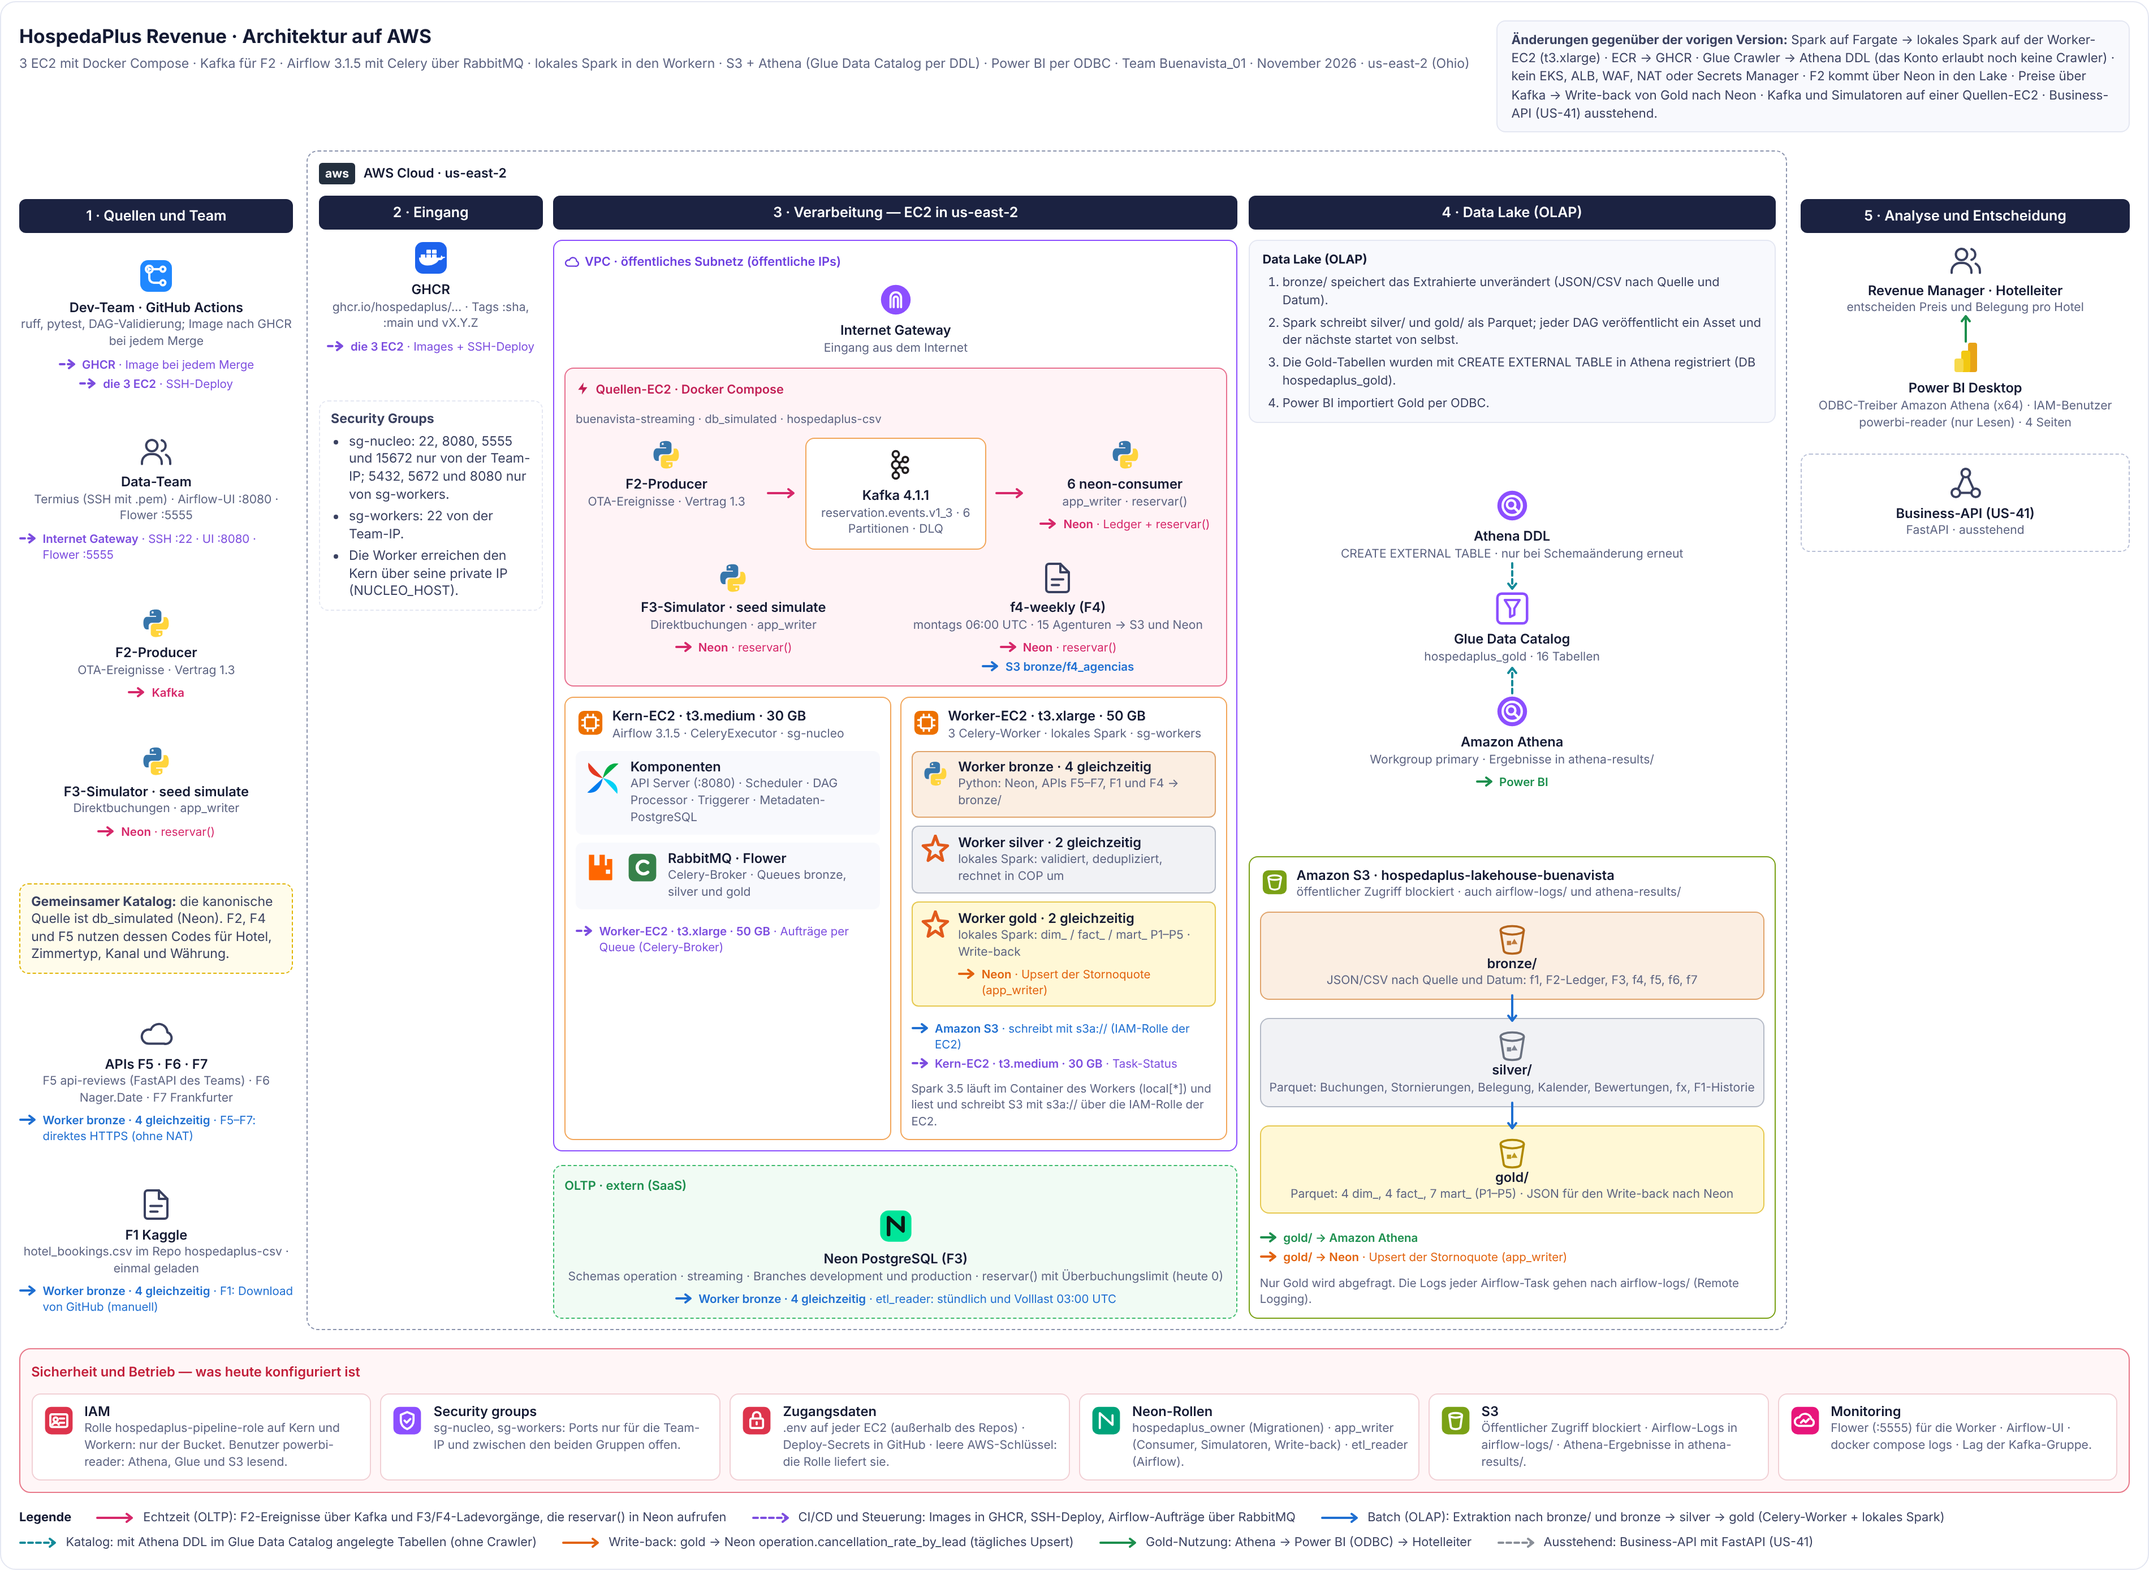
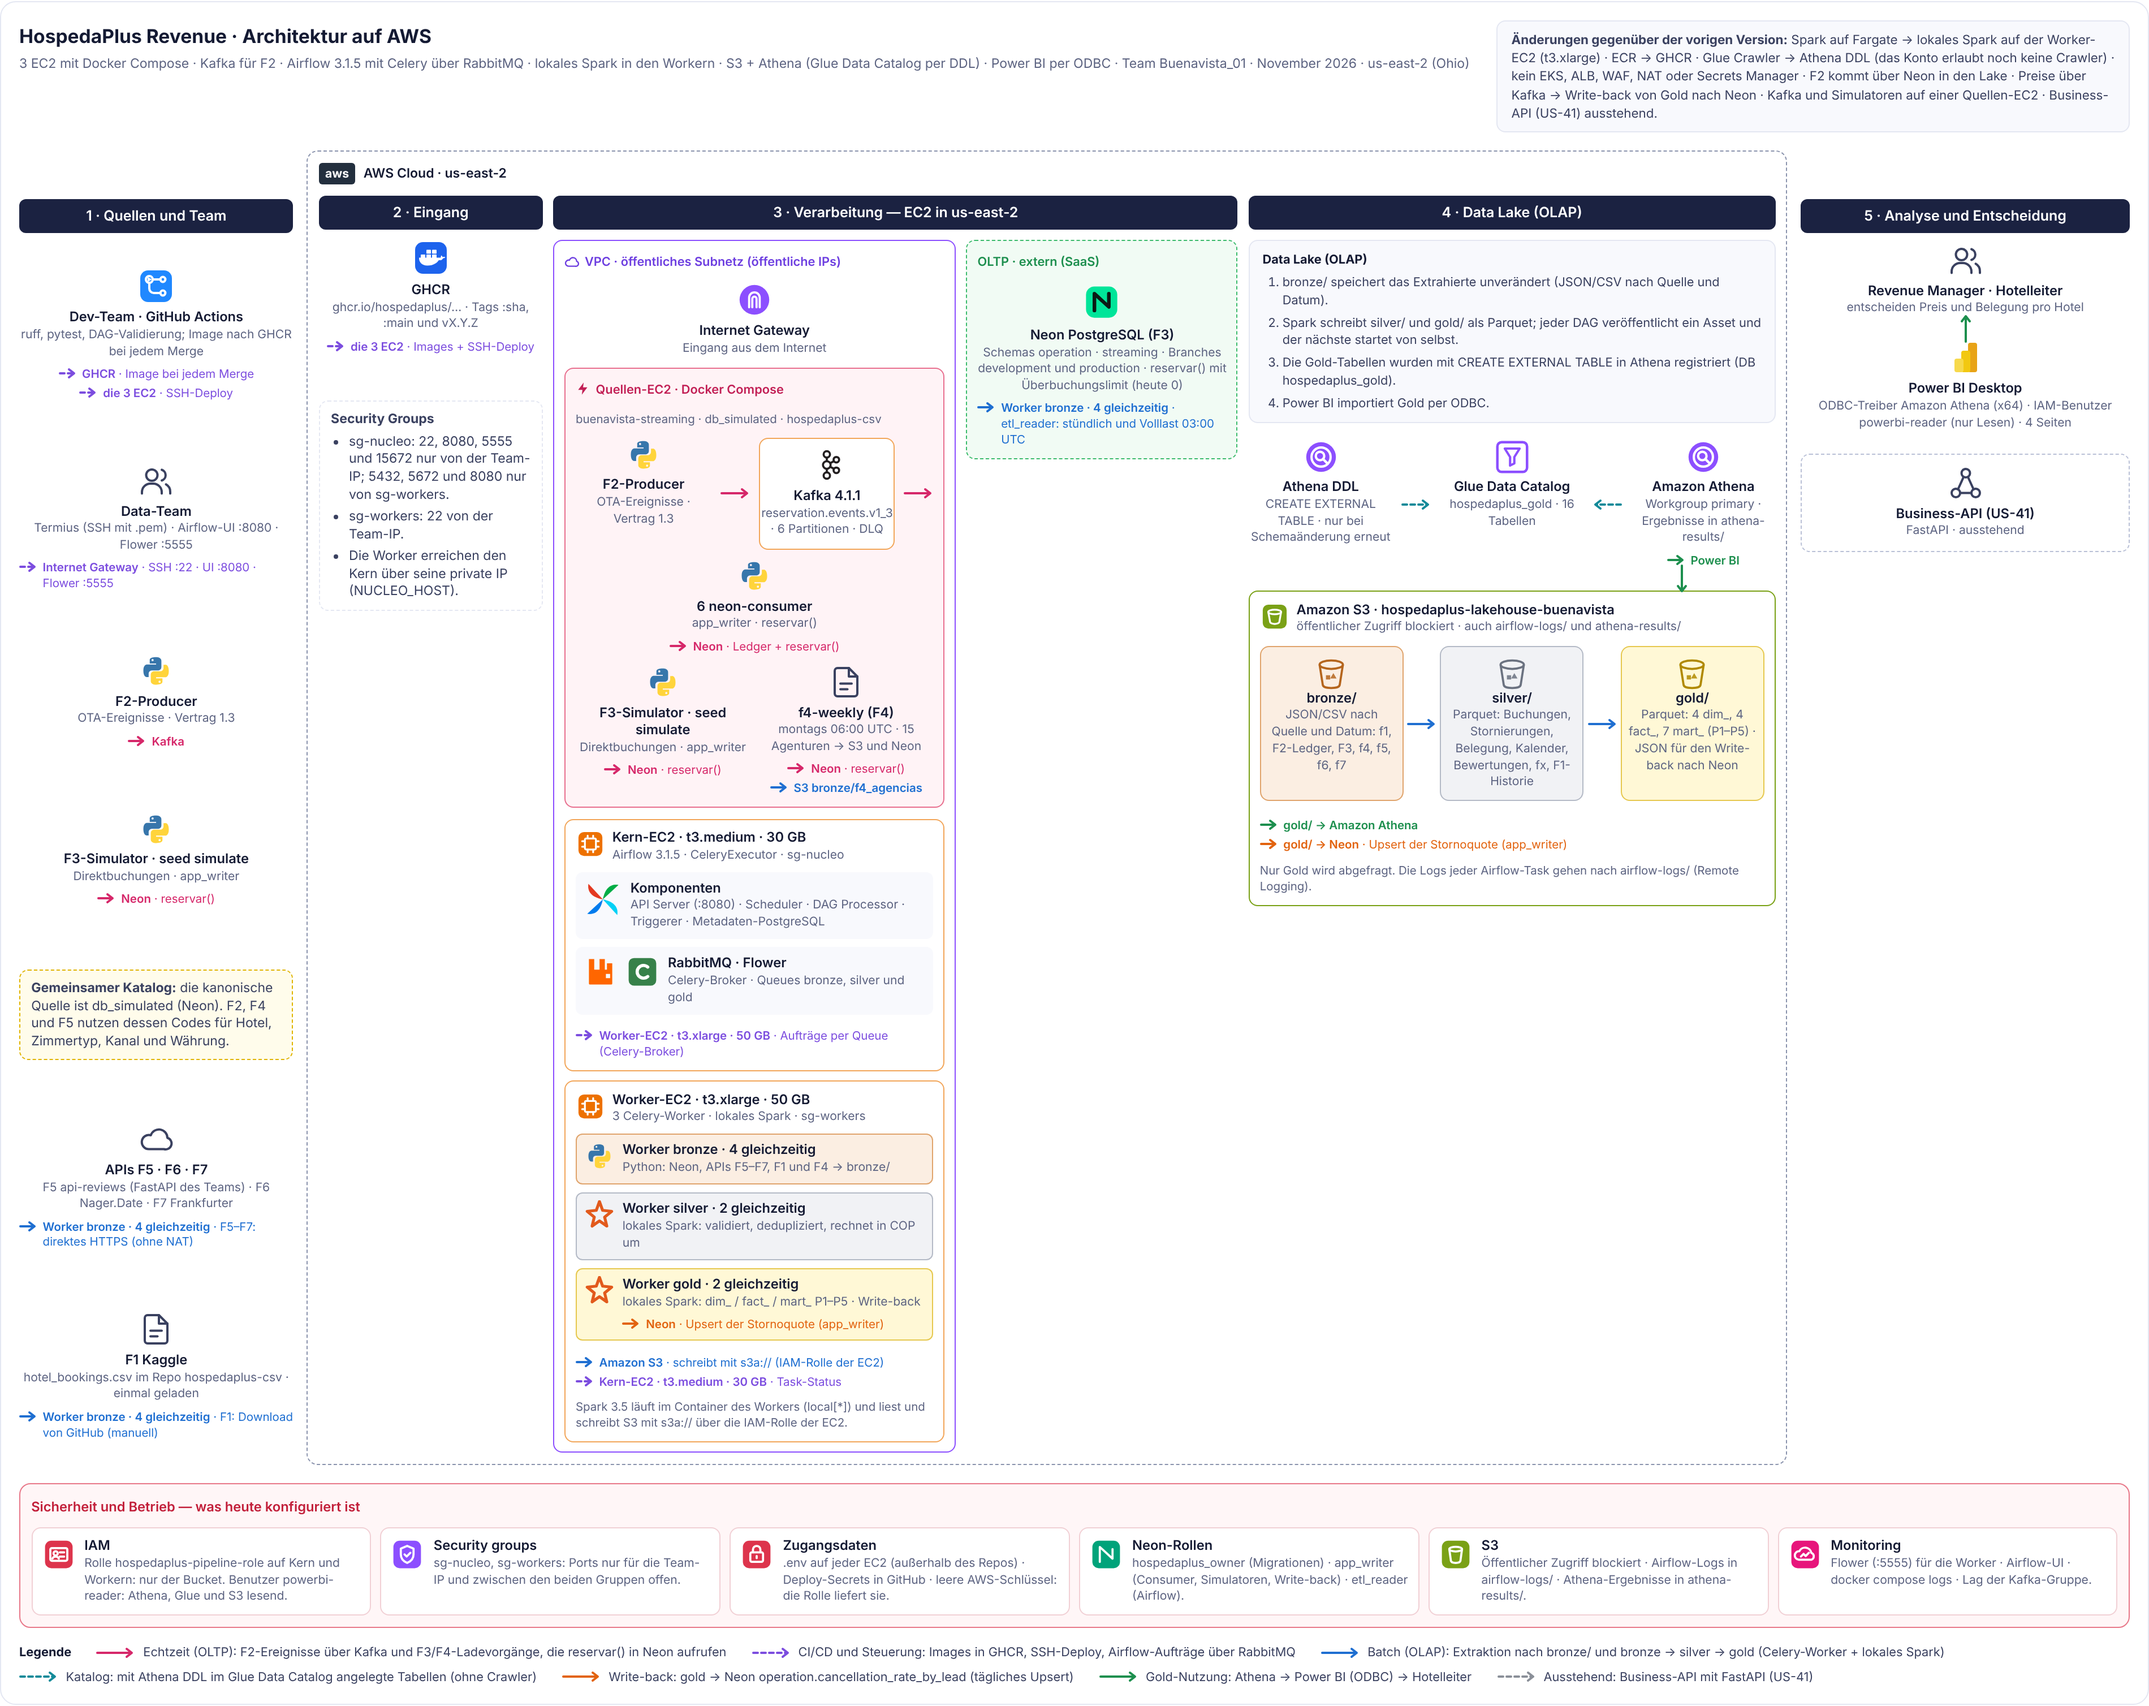
fix: Neon al lado de la VPC y Athena/Glue en fila con flecha a gold, como la referencia

diff --git a/src/components/ArchitectureV2/index.tsx b/src/components/ArchitectureV2/index.tsx
@@ -162,6 +162,8 @@ function Entry({s}: {s: Strings}): ReactNode {
 function Processing({s}: {s: Strings}): ReactNode {
   return (
     <Column title={s.col3} className={styles.processing}>
+      {/* VPC on the left, Neon (external SaaS) beside it on the right */}
+      <div className={styles.procGrid}>
       <Zone label={s.vpc} tone="vpc" icon="cloud">
         <Node logo={<IgwLogo />} title="Internet Gateway" caption={s.igwCaption} />
         <Zone label={s.sourcesEc2} tone="realtimeZone" icon="zap">
@@ -254,6 +256,7 @@ function Processing({s}: {s: Strings}): ReactNode {
           edges={<Edge kind="batch" to={s.workerBronze} label={s.edge.bronzeExtract} />}
         />
       </Zone>
+      </div>
     </Column>
   );
 }
@@ -315,6 +318,10 @@ function DataLake({s}: {s: Strings}): ReactNode {
           caption={s.athenaCaption}
           edges={<Edge kind="gold" to="Power BI" />}
         />
+      </div>
+      {/* Athena reads gold/: the arrow goes down from Athena to the gold layer */}
+      <div className={styles.athenaToGold}>
+        <Link kind="gold" direction="down" />
       </div>
       <div className={styles.bucket}>
         <div className={styles.ec2Head}>

diff --git a/src/components/ArchitectureV2/styles.module.css b/src/components/ArchitectureV2/styles.module.css
@@ -891,3 +891,49 @@
   width: 1900px;
   margin: 0;
 }
+
+/* Neon beside the VPC, and Athena / Glue / layers in rows, as in the draw.io reference */
+.athenaToGold {
+  display: none;
+}
+
+.landscape .procGrid {
+  display: grid;
+  grid-template-columns: minmax(0, 1fr) 15rem;
+  gap: 0.6rem;
+  align-items: start;
+}
+
+.landscape .catalog,
+.landscape .layers {
+  flex-direction: row;
+  align-items: stretch;
+}
+
+.landscape .catalog > .link,
+.landscape .layers > .link {
+  transform: none;
+}
+
+.landscape .catalog > .link.left {
+  transform: rotate(180deg);
+}
+
+.landscape .catalog > .node,
+.landscape .layers > .layer {
+  flex: 1 1 0;
+}
+
+.landscape .athenaToGold {
+  display: flex;
+  justify-content: flex-end;
+  padding-right: 15%;
+  margin: -0.6rem 0;
+}
+
+
+
+.landscape .lake .columnBody {
+  justify-content: flex-start;
+  gap: 0.9rem;
+}
